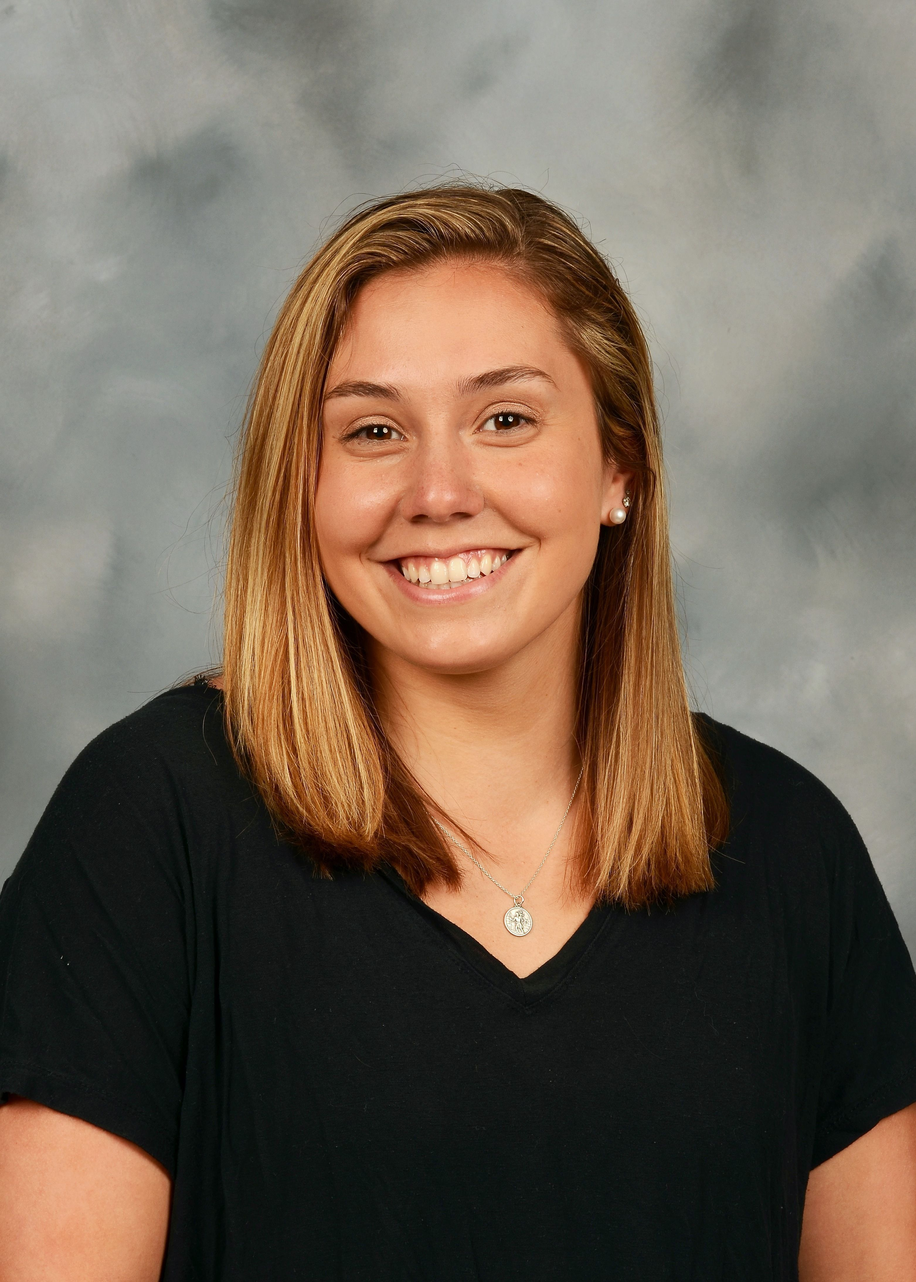
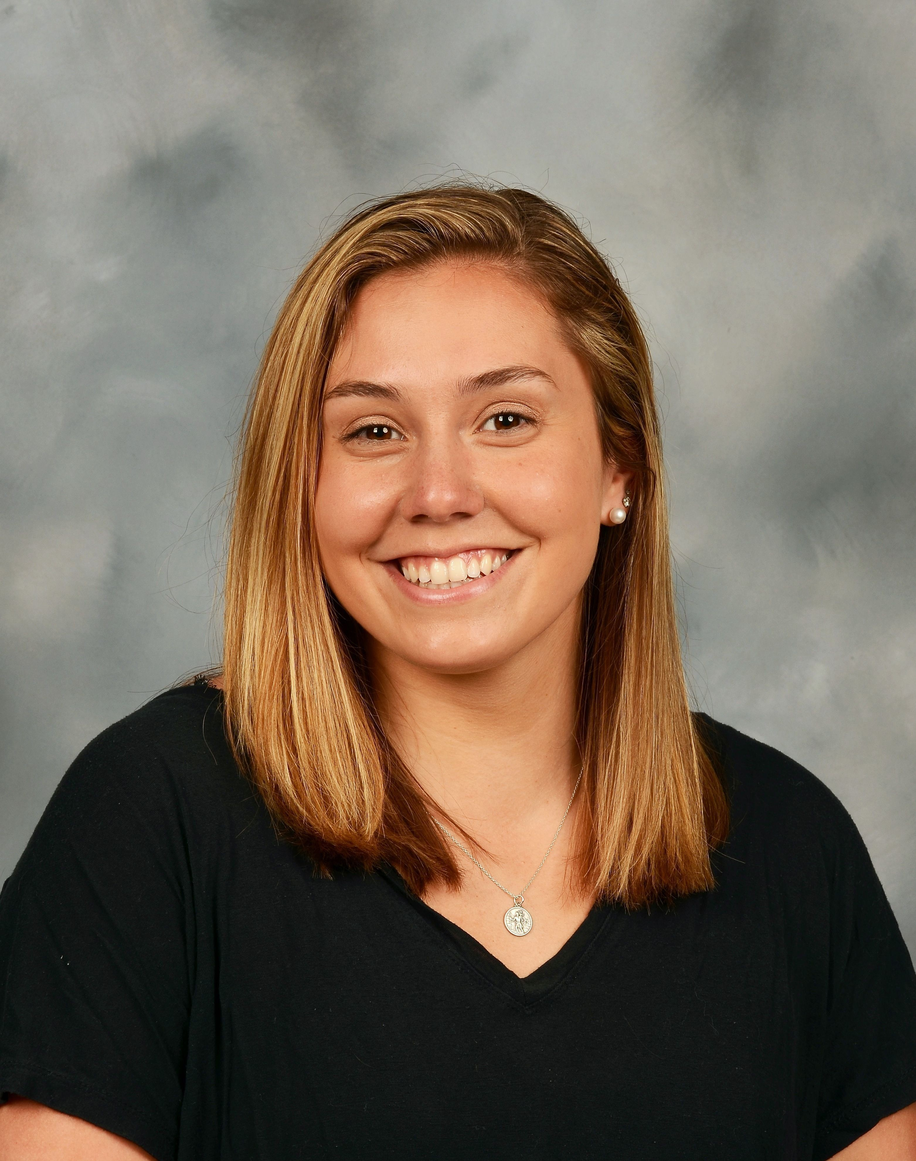
Added Catherine's photo and updated Georgia's  thumbnail

diff --git a/index.html b/index.html
@@ -390,40 +390,42 @@
                 </div>
             </div>
             <div class="row">
-                <div class="col"><a class="mx-auto" href="https://davidgallacherphysics.com/" style="color: var(--bs-black);">
-                        <div style="color: var(--bs-black);"><img class="img-thumbnail img-fluid border rounded portfolio-item" src="assets/img/thumbs/david-gallacher_thumb.png" data-bs-toggle="modal">
-                            <h5 style="padding: 10px 0px 0px;">David Gallacher</h5>
-                            <p>Outreach Coordinator - Hackathon<br>+ Webmaster</p>
-                        </div>
-                    </a></div>
-                <div class="col"><a class="mx-auto" href="https://curtina.github.io/" style="color: var(--bs-black);">
-                        <div><img class="img-fluid border rounded" src="assets/img/thumbs/alicecurtin_thumb.png">
-                            <h5 style="color: var(--bs-black);text-decoration: underline;padding: 10px 0px 0px;">Alice Curtin</h5>
-                            <p style="color: var(--bs-black);text-decoration:  underline;">Outreach Coordinator - Space Explorers</p>
-                        </div>
-                    </a></div>
                 <div class="col"><a class="mx-auto" href="https://www.physics.mcgill.ca/~brunner/" style="color: var(--bs-black);">
-                        <div><img class="img-fluid border rounded" src="assets/img/thumbs/brunner_thumb.png">
-                            <h5 style="color: var(--bs-black);text-decoration: underline;padding: 10px 0px 0px;">Thomas Brunner</h5>
-                            <p style="color: var(--bs-black);text-decoration:  underline;">Outreach Committee Chair - Faculty Member</p>
+                    <div><img class="img-thumbnail img-fluid border rounded portfolio-item" src="assets/img/thumbs/brunner_thumb.png">
+                        <h5 style="color: var(--bs-black);text-decoration: underline;padding: 10px 0px 0px;">Thomas Brunner</h5>
+                        <p style="color: var(--bs-black);text-decoration:  underline;">Outreach Committee Chair - Faculty Member</p>
+                    </div>
+                </a></div>
+                <div class="col"><a class="mx-auto" href="" style="color: var(--bs-black);">
+                    <div style="color: var(--bs-black);"><img class="img-thumbnail img-fluid border rounded portfolio-item" src="assets/img/thumbs/carolina_thumb.png" width="200" height="300" data-bs-toggle="modal">
+                        <h5 style="padding: 10px 0px 0px;">Carolina Cruz-Vinaccia</h5>
+                        <p>TSI Program Administrator (Inreach, Outreach, EDI)<br></p>
+                    </div>
+                </a></div>
+                <div class="col"><a class="mx-auto" href="" style="color: var(--bs-black);">
+                        <div style="color: var(--bs-black);"><img class="img-thumbnail img-fluid border rounded portfolio-item" src="assets/img/thumbs/Catherine_Boisvert.jpg" data-bs-toggle="modal">
+                            <h5 style="padding: 10px 0px 0px;">Catherine Boisvert</h5>
+                            <p>Outreach Coordinator - Hackathon</p>
                         </div>
                     </a></div>
+                
+                
             </div>
             <div class="row">
-                <div class="col"><a class="mx-auto" href="" style="color: var(--bs-black);">
-                        <div style="color: var(--bs-black);"><img class="img-thumbnail img-fluid border rounded portfolio-item" src="assets/img/thumbs/carolina_thumb.png" width="200" height="300" data-bs-toggle="modal">
-                            <h5 style="padding: 10px 0px 0px;">Carolina Cruz-Vinaccia</h5>
-                            <p>TSI Program Administrator (Inreach, Outreach, EDI)<br></p>
-                        </div>
-                    </a></div>
+                <div class="col"><a class="mx-auto" href="https://curtina.github.io/" style="color: var(--bs-black);">
+                    <div><img class="img-thumbnail img-fluid border rounded portfolio-item" src="assets/img/thumbs/alicecurtin_thumb.png">
+                        <h5 style="color: var(--bs-black);text-decoration: underline;padding: 10px 0px 0px;">Alice Curtin</h5>
+                        <p style="color: var(--bs-black);text-decoration:  underline;">Outreach Coordinator - Space Explorers</p>
+                    </div>
+                </a></div>
                 <div class="col"><a class="mx-auto" style="color: var(--bs-black);">
-                        <div><img class="img-fluid border rounded" src="assets/img/thumbs/Georgia_Mraz.jpg" width="200" height="300">
+                        <div><img class="img-thumbnail img-fluid border rounded portfolio-item" src="assets/img/thumbs/Georgia_Mraz.jpg" width="200" height="300">
                             <h5 style="color: var(--bs-black);text-decoration: underline;padding: 10px 0px 0px;">Georia Mraz</h5>
                             <p style="color: var(--bs-black);text-decoration:  underline;">Space Explorer Coordinator</p>
                         </div>
                     </a></div>
                 <div class="col" style="color: var(--bs-black);text-decoration:  underline;"><a class="mx-auto" href="" style="color: var(--bs-black);text-decoration:  underline;">
-                        <div style="color: var(--bs-black);text-decoration:  underline;"><img class="img-fluid border rounded" src="assets/img/thumbs/Kim_Metera_thumb.png" width="200" height="300" style="color: var(--bs-black);text-decoration:  underline;">
+                        <div style="color: var(--bs-black);text-decoration:  underline;"><img class="img-thumbnail img-fluid border rounded portfolio-item" src="assets/img/thumbs/Kim_Metera_thumb.png" width="200" height="300" style="color: var(--bs-black);text-decoration:  underline;">
                             <h5 style="color: var(--bs-black);text-decoration: underline;padding: 10px 0px 0px;">Kim Metera</h5>
                             <p style="color: var(--bs-black);text-decoration:  underline;">Outreach Support -&nbsp;Undergraduate Advisor</p>
                         </div>
@@ -437,13 +439,13 @@
                         </div>
                     </a></div>
                 <div class="col" style="color: var(--bs-black);text-decoration:  underline;"><a class="mx-auto" href="" style="color: var(--bs-black);text-decoration:  underline;">
-                        <div style="color: var(--bs-black);text-decoration:  underline;"><img class="img-fluid border rounded" src="assets/img/thumbs/valentina-mazzotti.jpg" width="200" height="300" style="color: var(--bs-black);text-decoration:  underline;">
+                        <div style="color: var(--bs-black);text-decoration:  underline;"><img class="img-thumbnail img-fluid border rounded portfolio-item" src="assets/img/thumbs/valentina-mazzotti.jpg" width="200" height="300" style="color: var(--bs-black);text-decoration:  underline;">
                             <h5 style="color: var(--bs-black);text-decoration: underline;padding: 10px 0px 0px;">Valentina Mazzotti</h5>
                             <p style="color: var(--bs-black);text-decoration:  underline;">Outreach Coordinator - Public Talks and Social Media</p>
                         </div>
                     </a></div>
                 <div class="col"><a class="mx-auto" href="https://tsi.mcgill.ca/index.php?page=observing" style="color: var(--bs-black);">
-                    <div><img class="img-fluid border rounded" src="assets/img/thumbs/matt_thumb.png" width="200" height="300">
+                    <div><img class="img-thumbnail img-fluid border rounded portfolio-item" src="assets/img/thumbs/matt_thumb.png" width="200" height="300">
                         <h5 style="color: var(--bs-black);text-decoration: underline;padding: 10px 0px 0px;">Matt Lundy</h5>
                         <p style="color: var(--bs-black);text-decoration:  underline;">Anna McPherson Observatory Supervisor<br>For observatory inquiries email:&nbsp;<a href="mailto:observatory@physics.mcgill.ca"><span style="color: rgb(0, 0, 0);">observatory@physics.mcgill.ca</span></a></p>
                     </div>
